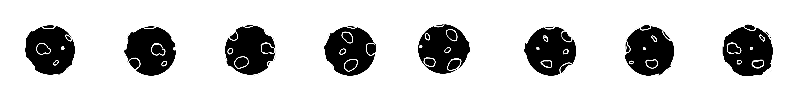
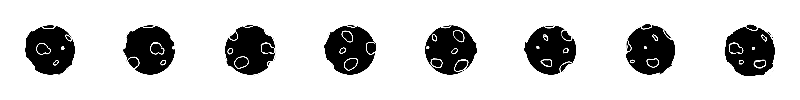
animation fix

diff --git a/lydiaCode/enemies.js b/lydiaCode/enemies.js
@@ -32,7 +32,7 @@ class enemy {
         }
         this.frameY = 0;
         this.frameX = this.current_frame * this.spriteW;
-        if(frameCount % 3 == 0) {
+        if(frameCount % 4 == 0) {
             if (this.current_frame == this.total_frames) {
                 this.current_frame = 0;
             } else {
@@ -57,7 +57,7 @@ class asteroid extends enemy {
         this.frameX;
         this.frameY;
         this.current_frame = 0;
-        this.total_frames = 8;
+        this.total_frames = 6;
         
     }
 }
